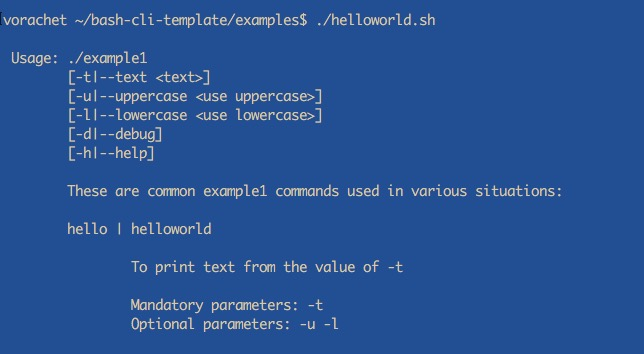
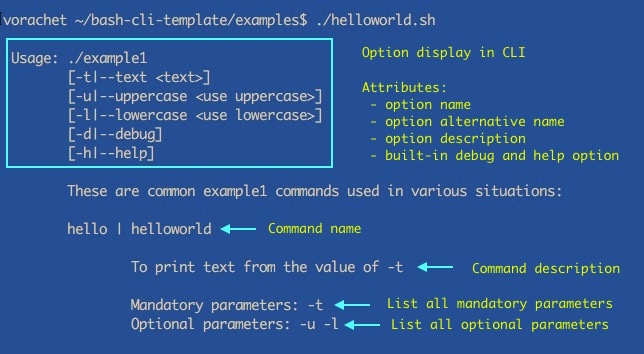
add intro

diff --git a/README.md b/README.md
@@ -52,9 +52,11 @@ $ ./helloworld.sh
 
 ###  A quick walk through the CLI interface after implementation
 
-This section gives a quick walk through the CLI interface after implementation. It is zero coding and configuration effort on providing the following interface because all interface interactions will be managed by bash.sh.
+This section gives a quick walk through the CLI interface after implementation. It is zero coding and configuration effort on providing the following interfaces work. All interface interactions will be managed by bash.sh.
 
-#### Run helloworld CLI script with
+#### Basic informaton of your CLI
+
+The default script behavior is to show help messages if the user running the script without option and command.
 
 ![Logo](https://github.com/vorachet/bash-cli-template/raw/master/screenshot/1.jpg)
 
